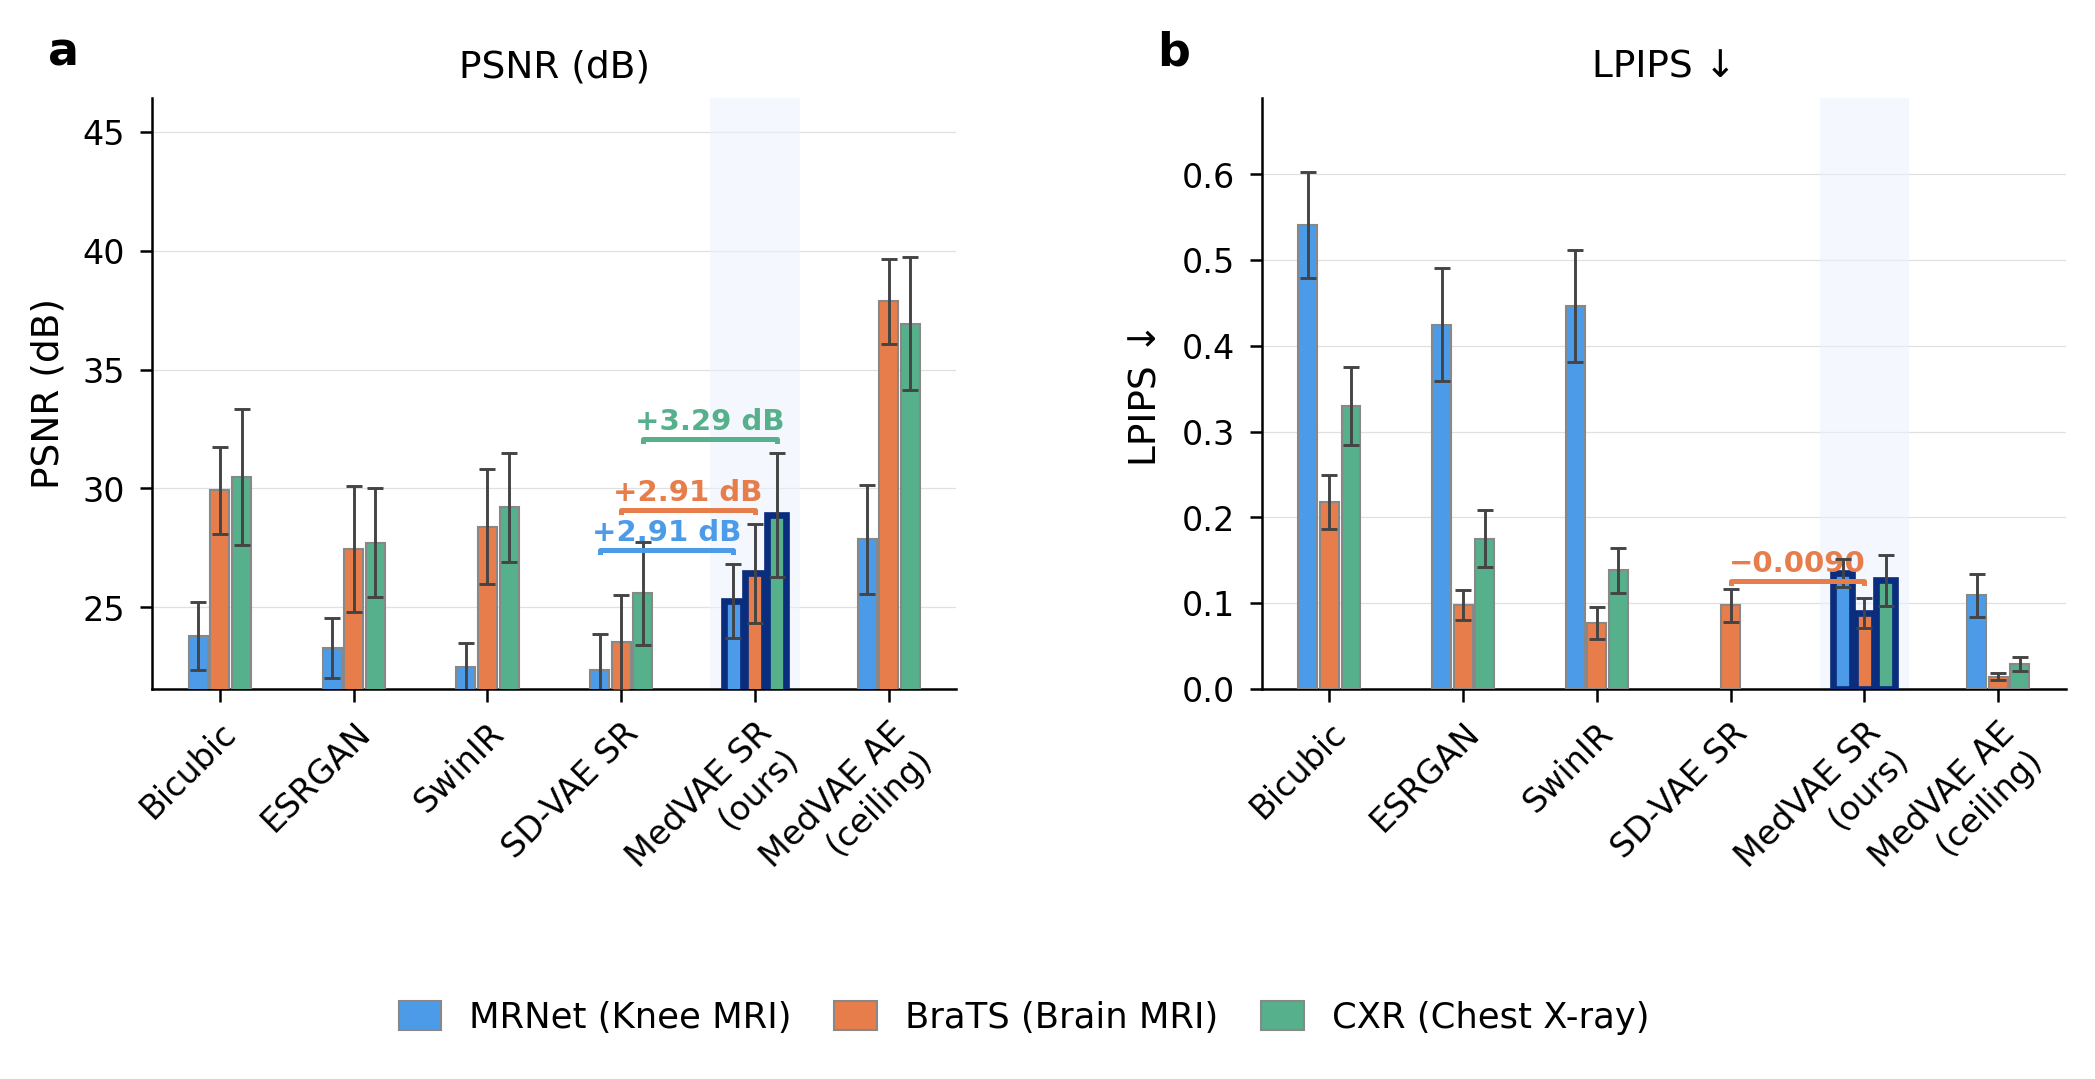
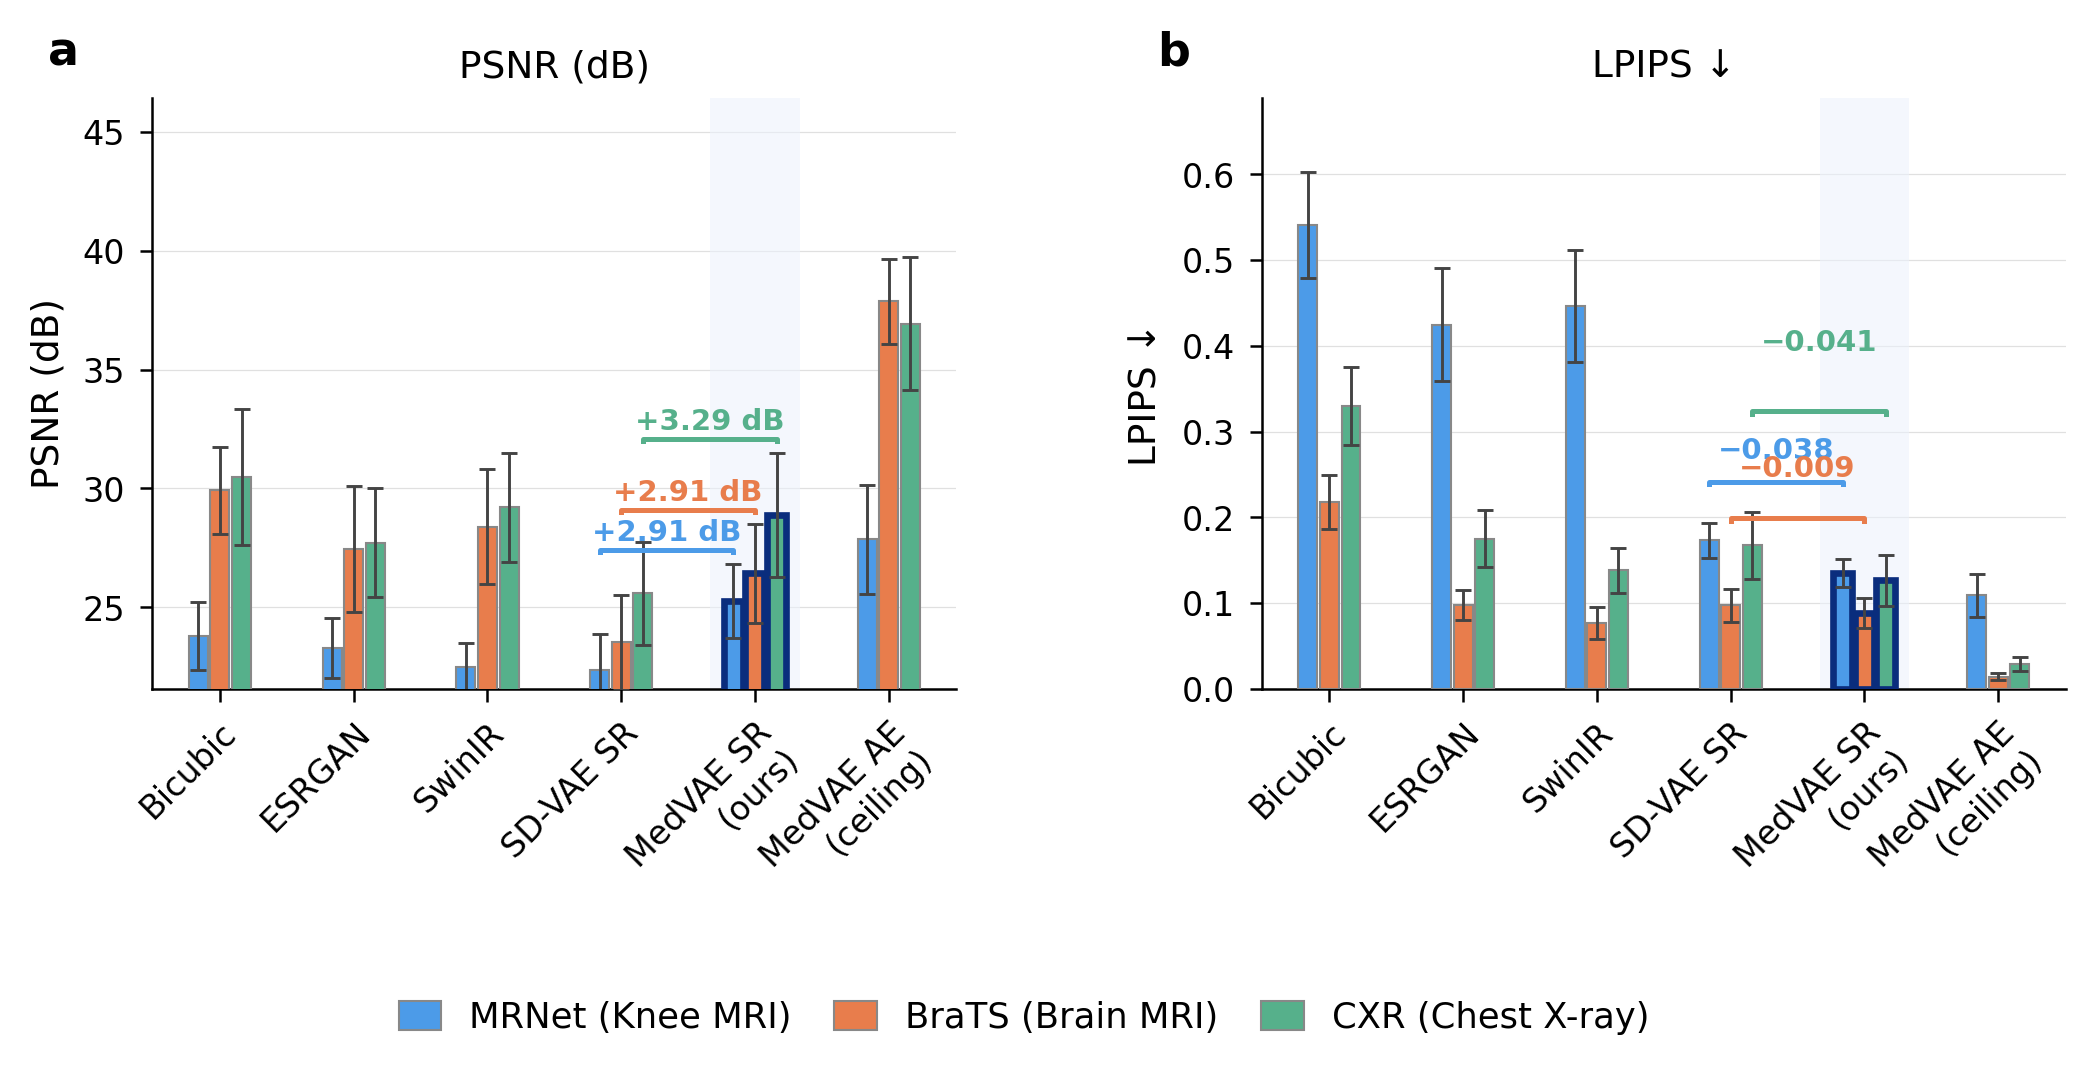
Update README, expected results, and figures
- README: remove 'Paper 1 —' prefix from title; paper title is now the h1
- README: fix BraTS MedVAE AE PSNR (38.42 test-split → 37.87 val-split, paper value)
- README: add metrics_summary.json to output tree and §8 stats section;
  note SD-VAE SR MRNet/CXR LPIPS provenance (batch eval log → patched JSON)
- figures/fig1.{png,pdf}: updated bar chart with all 3 SD-VAE SR LPIPS bars
  and staggered bracket labels (no overlap)
- figures/fig2b_brats_diffmap.png: updated diffmap with larger annotations

Changed region(s): [[0.8067, 0.367, 0.8998, 0.6423], [0.8377, 0.3058, 0.8998, 0.3364]]

diff --git a/README.md b/README.md
@@ -1,6 +1,6 @@
-# Paper 1 — Reproducibility Package
+# Domain-Specific Latent Representations Improve Diffusion-Based Medical Image Super-Resolution
 
-**"Domain-Specific Latent Representations Improve Diffusion-Based Medical Image Super-Resolution"**
+**Reproducibility Package**
 
 > **Core finding:** Replacing SD-VAE with MedVAE in an otherwise identical LDM pipeline yields +2.91–3.29 dB PSNR across three medical imaging modalities (Cohen's d = 1.37–1.86; all p < 10⁻²⁰, Wilcoxon signed-rank).
 
@@ -294,8 +294,12 @@ sbatch slurm/run_t16_cxr.sh
 ### §8 — Statistical analysis (Table 2, Supp Tables 5, 9)
 
 ```bash
-# Cohen's d + 95% bootstrap CI (n=10,000)
-python scripts/compute_effect_sizes.py
+# Canonical metrics table — single source of truth for all Table 1 values
+# (PSNR / MS-SSIM / LPIPS for all 21 method×dataset combinations)
+# Note: SD-VAE SR LPIPS for MRNet (0.1731) and CXR (0.1671) were computed
+# during the all_remaining batch eval run and patched into their experiment JSONs.
+python scripts/compute_effect_sizes.py   # also writes metrics_summary.json
+# → outputs/statistical_tests/metrics_summary.json
 # → outputs/statistical_tests/effect_sizes.json
 
 # Wilcoxon signed-rank p-values
@@ -349,7 +353,7 @@ All figures are generated at **300 DPI** in `outputs/figures/` and collected int
 | Dataset | Bicubic | ESRGAN | SwinIR | SD-VAE SR | **MedVAE SR** | MedVAE AE |
 |---------|---------|--------|--------|-----------|---------------|-----------|
 | MRNet PSNR | 23.79 | 23.28 | 22.48 | 22.34 | **25.26** | 27.85 |
-| BraTS PSNR | 29.91 | 27.45 | 28.38 | 23.51 | **26.42** | 38.42 |
+| BraTS PSNR | 29.91 | 27.45 | 28.38 | 23.51 | **26.42** | 37.87 |
 | CXR PSNR | 30.47 | 27.71 | 29.21 | 25.58 | **28.87** | 36.93 |
 | MRNet LPIPS | 0.541 | 0.425 | 0.446 | 0.173 | **0.135** | 0.109 |
 | BraTS LPIPS | 0.218 | 0.098 | 0.077 | 0.097 | **0.088** | 0.014 |
@@ -407,7 +411,8 @@ outputs/
 │   └── mrnet_medvae_t16/ brats_medvae_t16/ cxr_medvae_t16/
 │
 ├── statistical_tests/
-│   ├── effect_sizes.json
+│   ├── metrics_summary.json         ← canonical Table 1 values (all methods × datasets)
+│   ├── effect_sizes.json            ← Cohen's d + 95% bootstrap CI
 │   ├── wilcoxon_results.json
 │   └── bland_altman_stats.json
 │